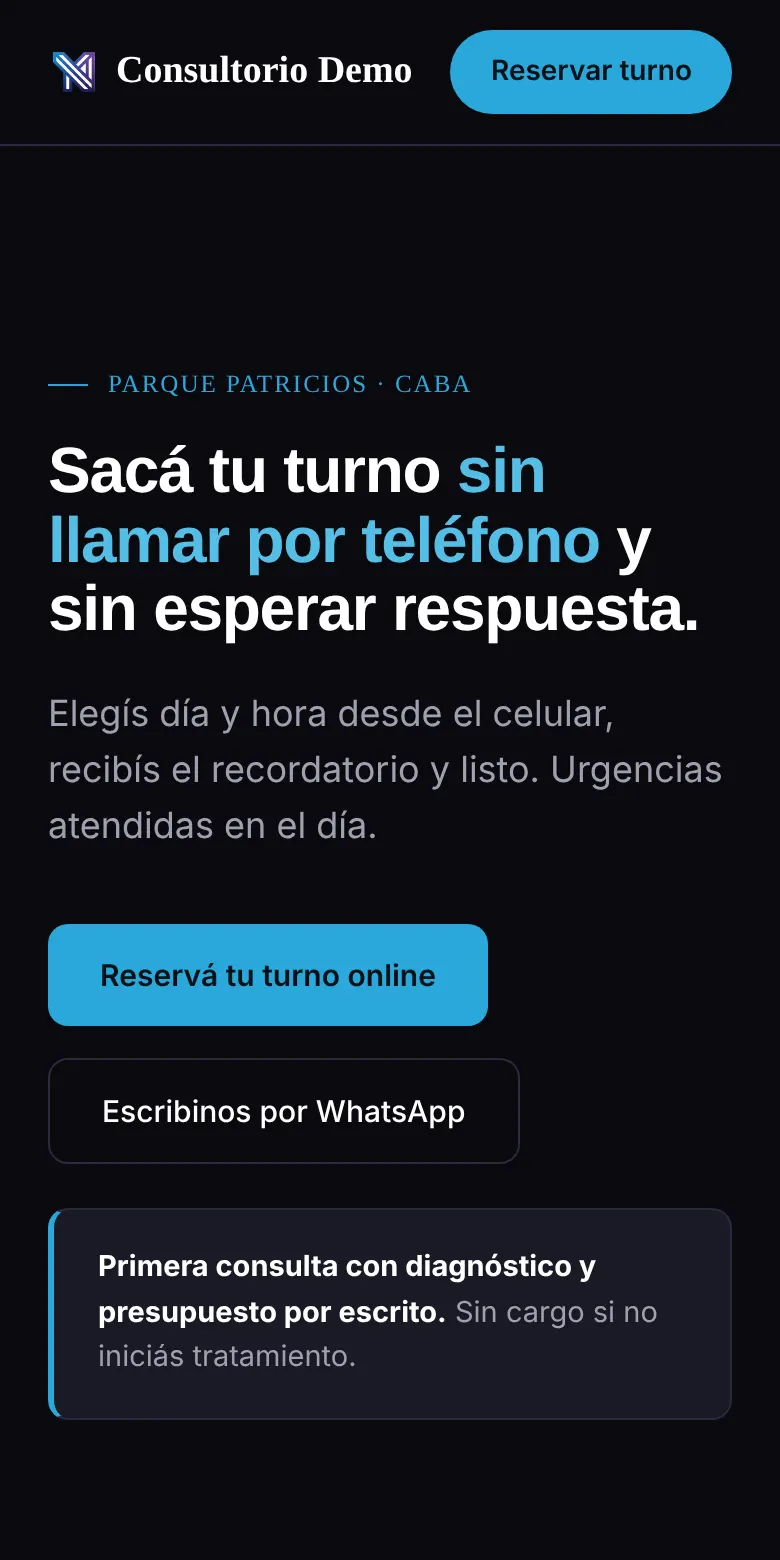
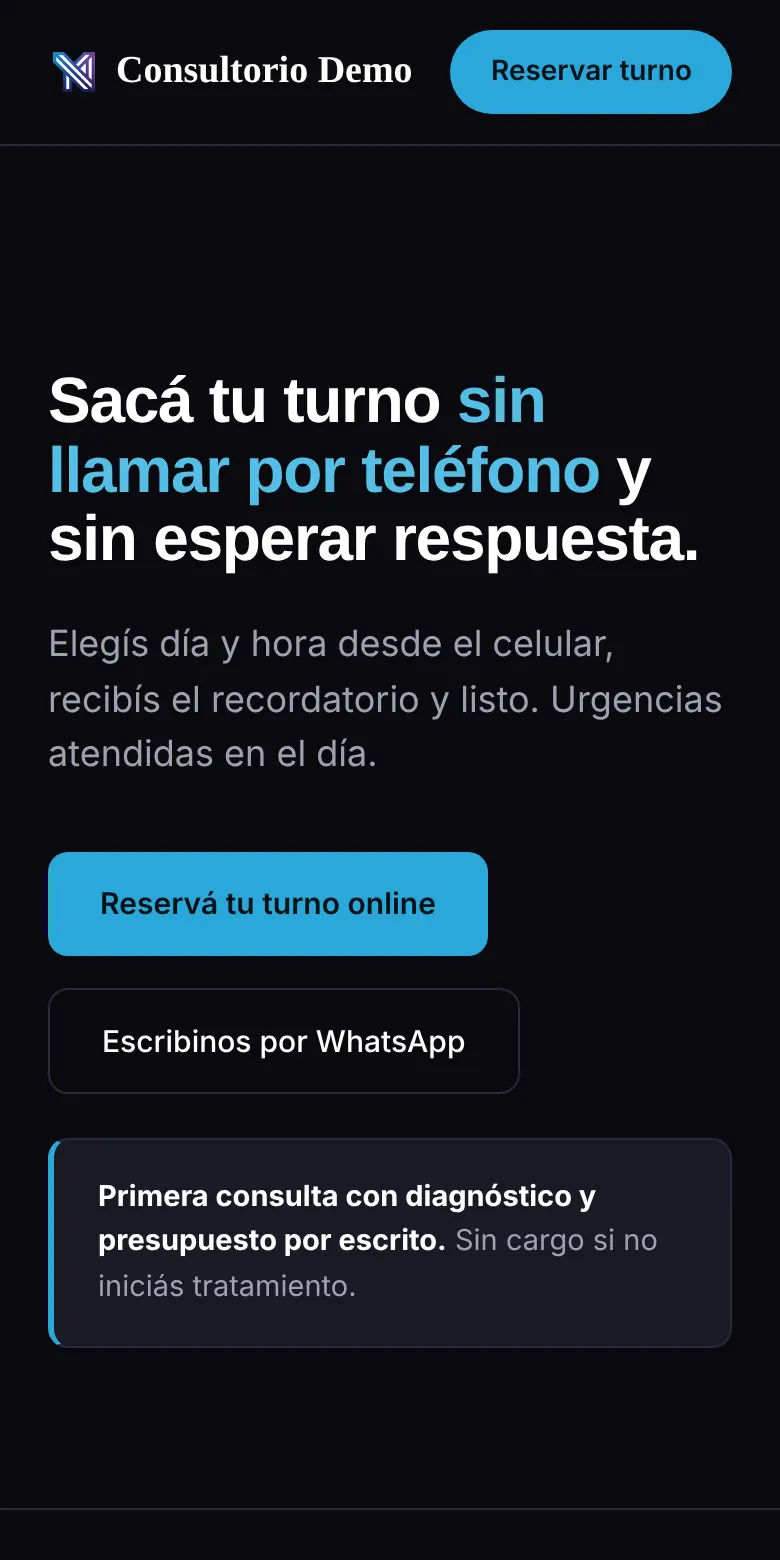
Landing y términos: pago en dos partes, tarjeta vía plataforma, garantía de plazo
- Landing: bloque de formas de pago (50/50 por transferencia; tarjeta en cuotas vía plataforma, que informa el costo financiero) y garantía de plazo con enlace a condiciones
- Términos: cláusula de pago 50/50 y medios de pago (sin financiación propia; TEA y CFT los informa la plataforma, Res. SIC 12/2024)
- Términos: garantía de plazo con condiciones; aclara que se suma a los derechos de la Ley 24.240
- Captura de ejemplo sin ubicación geográfica

Claude-Session: https://claude.ai/code/session_015a7i5BCBVB7KAFRLJzsWZs

diff --git a/terminos.html b/terminos.html
@@ -55,7 +55,7 @@
 <main>
 <div class="eyebrow">Documento legal</div>
 <h1>Términos y condiciones</h1>
-<p class="updated">Última actualización: 13 de octubre de 2026</p>
+<p class="updated">Última actualización: 15 de octubre de 2026</p>
 
 <details class="sec"><summary>1. Partes y aceptación</summary><div class="body">
 <p>Los servicios son prestados por Luis Virgilio Areco Galeano, CUIT 20-18866406-8, con domicilio fiscal en Santo Domingo 3900, Ciudad Autónoma de Buenos Aires (CP 1437), que opera bajo el nombre comercial Young Nexus. Correo de contacto: <a href="mailto:youngnexus.contacto@gmail.com">youngnexus.contacto@gmail.com</a>. La contratación implica la aceptación de estos términos, regidos por el Código Civil y Comercial de la Nación y, cuando corresponda, por la Ley 24.240 de Defensa del Consumidor.</p>
@@ -66,7 +66,8 @@
 <details class="sec"><summary>3. Precios y pagos</summary><div class="body">
 <ul>
   <li>Los precios publicados son finales, en pesos argentinos. Todos los trabajos se facturan.</li>
-  <li>La forma de pago se indica en la propuesta. El trabajo comienza con la acreditación del pago inicial acordado.</li>
+  <li>Salvo que la propuesta indique otra cosa, se abona el 50% al aceptar la propuesta y el 50% restante contra entrega. El trabajo comienza con la acreditación del primer pago; los accesos definitivos se entregan con el pago del saldo.</li>
+  <li>Medios de pago: transferencia bancaria, sin recargo, o tarjeta a través de plataformas de pago de terceros. Si el cliente elige pagar en cuotas con interés, la financiación la otorga la plataforma o el emisor de la tarjeta, que informa la tasa efectiva anual y el costo financiero total antes de confirmar la operación. Young Nexus no otorga financiación propia.</li>
   <li>El abono mensual se paga por adelantado. Sus actualizaciones se comunican con 30 días de anticipación. Las condiciones promocionales vigentes se publican en el sitio.</li>
   <li>El dominio y los servicios pagos de terceros se contratan a nombre y a cargo del cliente.</li>
   <li>La falta de pago del abono por más de 30 días habilita la suspensión del servicio, previo aviso.</li>
@@ -74,6 +75,13 @@
 </div></details>
 <details class="sec"><summary>4. Entrega y conformidad</summary><div class="body">
 <p>Al finalizar cada trabajo se notifica la entrega. El cliente cuenta con 5 días hábiles para formular observaciones sobre lo acordado en la propuesta; vencido ese plazo sin observaciones, el trabajo se considera aceptado. Los cambios fuera del alcance acordado se presupuestan por separado.</p>
+<p><strong>Garantía de plazo.</strong> Si Young Nexus no entrega el trabajo en el plazo fijado en la propuesta, el primer abono mensual de acompañamiento se bonifica en su totalidad. Condiciones:</p>
+<ul>
+  <li>El plazo corre desde que el cliente entregó la información, los materiales y los accesos indicados en la propuesta.</li>
+  <li>El plazo se suspende mientras haya un pedido pendiente de respuesta del cliente, ante cambios de alcance solicitados por el cliente (que fijan un nuevo plazo por escrito) y ante interrupciones de servicios de terceros ajenas a Young Nexus.</li>
+  <li>Se aplica una vez por propuesta, no es acumulable y no se canjea por dinero.</li>
+  <li>Esta garantía se suma a los derechos que otorga la Ley 24.240 y no los limita.</li>
+</ul>
 </div></details>
 <details class="sec"><summary>5. Arrepentimiento y baja</summary><div class="body">
 <ul>

diff --git a/index.html b/index.html
@@ -544,6 +544,13 @@
       <strong>Precio de lanzamiento.</strong> Estos valores se mantienen hasta nuestros primeros 10 negocios o hasta el 31 de diciembre de 2026, lo que ocurra primero. Si entrás ahora, tu abono mensual queda congelado 6 meses y después se ajusta por IPC.
     </div>
 
+    <div class="promo-band">
+      <strong>Pagás en dos partes:</strong> 50% al arrancar y 50% cuando recibís el trabajo. Por transferencia, sin recargo. Si preferís tarjeta de crédito, podés pagar en cuotas a través de una plataforma de pago; la plataforma te informa el costo de la financiación antes de confirmar.
+    </div>
+    <div class="promo-band">
+      <strong>Garantía de plazo.</strong> Si no entregamos en la fecha que figura en tu propuesta, el primer mes de acompañamiento no se cobra. <a href="/terminos.html" style="color:var(--electric);">Ver condiciones</a>.
+    </div>
+
     <p class="price-note">Valores finales en pesos. Todos los trabajos se entregan con factura, emitida por ARCA (CUIT 20-18866406-8). El dominio (.com o .com.ar) lo contratás vos y queda siempre a tu nombre.</p>
   </div>
 </section>
